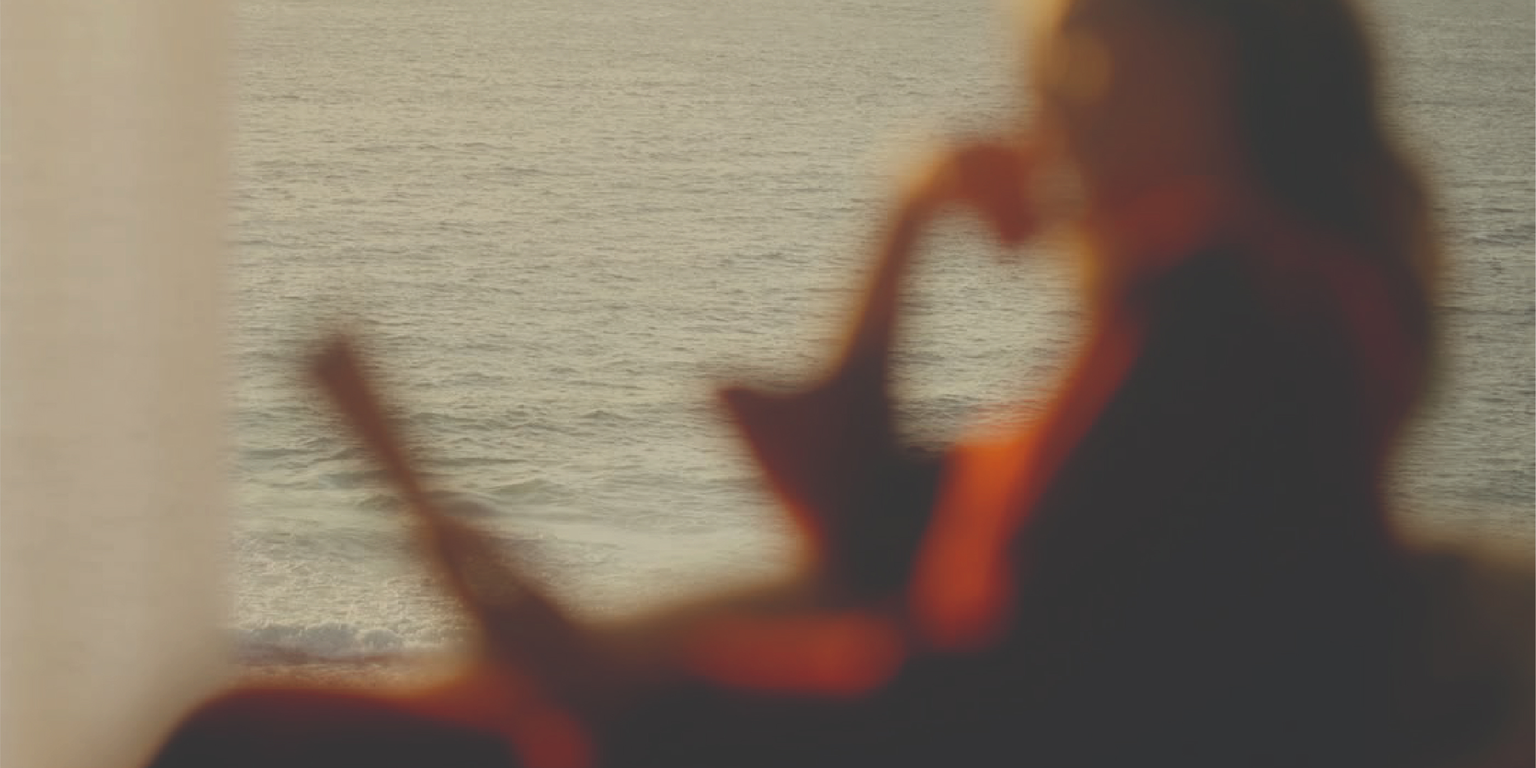
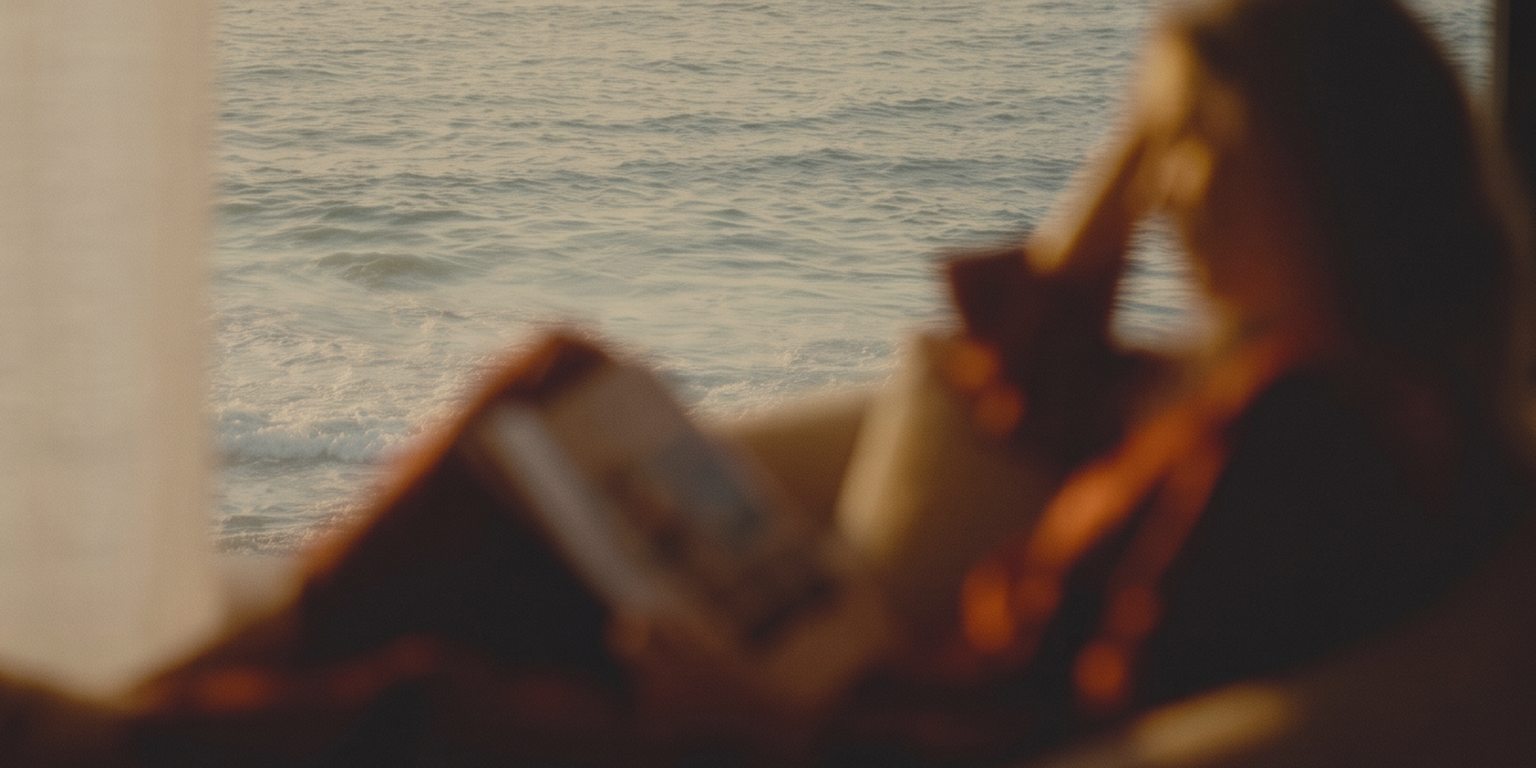
Update hero asset and added styling for third team member.

diff --git a/src/app/page.tsx b/src/app/page.tsx
@@ -51,13 +51,11 @@ export default async function IndexPage() {
           <h1>Luxury Travel Advisor</h1>
           <p>A considered practice <i>for the way you travel.</i></p>
         </hgroup>
-        <VideoBlock />
-        { /* }
+        { /* <VideoBlock /> */ }
         <picture>
           <source media="(min-width: 769px)" srcSet="/hero_d@2x.jpg" width="1400" height="700" />
           <img src="/hero_m@2x.jpg" alt="Image of a woman relaxing on vacation" width="390" height="702" />
         </picture>
-        { */ }
       </section>
       <section id="about">
         <h2>About</h2>

diff --git a/src/sass/index.scss b/src/sass/index.scss
@@ -174,18 +174,21 @@ section#our-team {
         list-style-type: none;
         padding: 0;
         gap: 1rem;
+        flex-wrap: wrap;
 
         @media screen and (min-width: 760px) {
             justify-content: flex-end;
             gap: 1rem;
             width: 60%;
+            flex-wrap: nowrap;
         }
 
         li {
             display: block;
+            width: calc(calc(100% - 1rem) / 2);
             
             @media screen and (min-width: 769px) {
-                width: 40%;
+                width: 30%;
             }
 
             &:hover {
